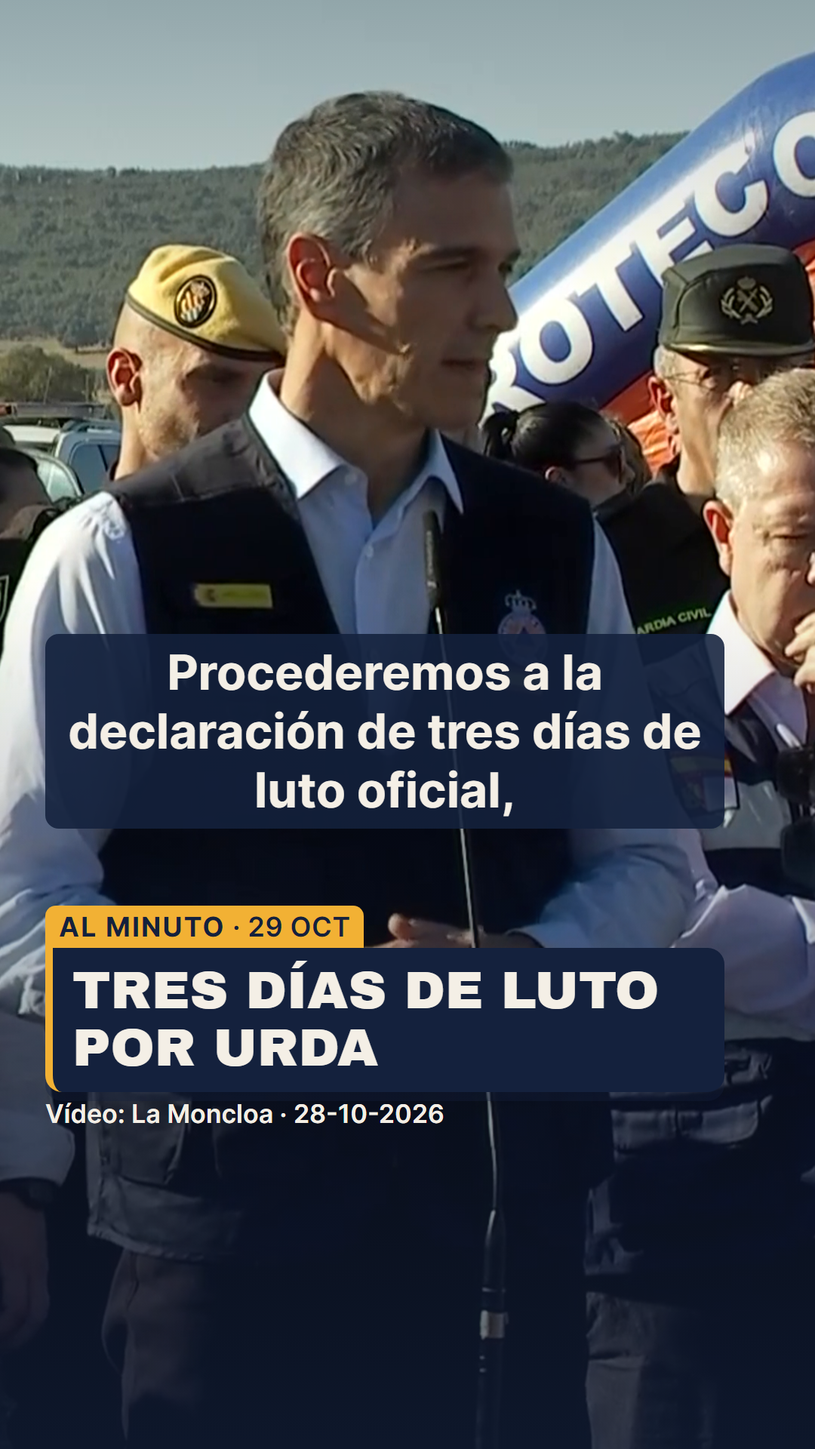
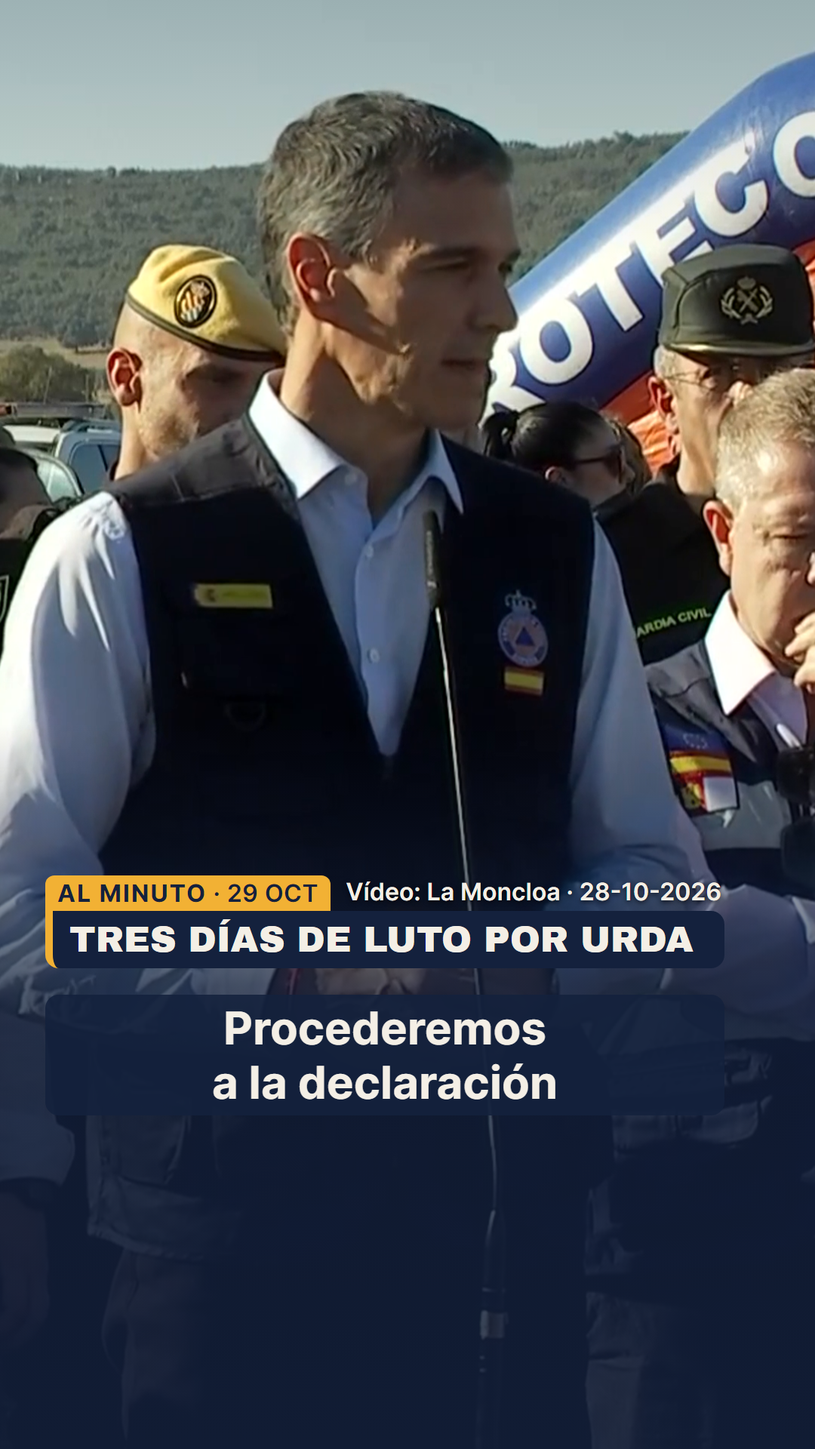
Al minuto sin voz en off y con todo el texto en la banda inferior (pauta Netflix/UNE 153010); 029 v4 aprobada

diff --git a/videos/remotion/src/componentes/AlMinuto.tsx b/videos/remotion/src/componentes/AlMinuto.tsx
@@ -4,8 +4,12 @@ import {C, F, SEGURA, SUBS} from '../tema';
 import {useEntrada, useSalida} from './util';
 import {Notas} from './Notas';
 
-/** Desplazamiento de los subtítulos (citas y voz) en Al minuto: suben sobre el pecho para dejar abajo la caja de titular. Úsalo también como subDy en escenas.json. */
-export const SUBS_DY_AM = -310;
+/** Banda inferior de Al minuto (2/5 de abajo de la pantalla, decisión 2026-10-29), por encima de la interfaz de Instagram (y <= 1500):
+ * caja de titular compacta en y=BANDA_AM.titular y subtítulos debajo en y=BANDA_AM.subs, como mucho 2 líneas
+ * (pauta de subtitulado: Netflix Timed Text Style Guide y UNE 153010 → abajo y centrados, 2 líneas, ~15-17 caracteres/s). */
+export const BANDA_AM = {titular: 1160, subs: 1318};
+/** Desplazamiento de los subtítulos de la voz (si la hay) para caer en la banda: subDy en escenas.json. */
+export const SUBS_DY_AM = BANDA_AM.subs - SUBS.y;
 
 /**
  * Formato AL MINUTO (2026-10-28; reglas en estilo/guia-estilo.md → "Formato Al minuto").
@@ -19,7 +23,7 @@ export const SUBS_DY_AM = -310;
 export const Clip: React.FC<{
   src: string; desde?: number; volumen?: number; bajarEn?: [number, number][]; volumenBajo?: number; foco?: string;
   zoom?: [number, number]; dur?: number; en?: number; credito?: string; creditoY?: number; velo?: number; fundidoFin?: number;
-}> = ({src, desde = 0, volumen = 1, bajarEn = [], volumenBajo = 0.15, foco = '50% 50%', zoom = [1, 1], dur = 10, en = 0, credito, creditoY = 1455, velo = 0.55, fundidoFin}) => {
+}> = ({src, desde = 0, volumen = 1, bajarEn = [], volumenBajo = 0.15, foco = '50% 50%', zoom = [1, 1], dur = 10, en = 0, credito, creditoY = 1500, velo = 0.55, fundidoFin}) => {
   const frame = useCurrentFrame();
   const {fps} = useVideoConfig();
   const k = interpolate(frame, [en * fps, (en + dur) * fps], [0, 1], {extrapolateLeft: 'clamp', extrapolateRight: 'clamp'});
@@ -40,7 +44,7 @@ export const Clip: React.FC<{
       <div style={{position: 'absolute', inset: 0, overflow: 'hidden', background: C.tinta}}>
         <OffthreadVideo src={staticFile(`clips/${src}`)} startFrom={Math.round(desde * fps)} volume={vol}
           style={{width: '100%', height: '100%', objectFit: 'cover', objectPosition: foco, transform: `scale(${esc})`, transformOrigin: foco}} />
-        <div style={{position: 'absolute', inset: 0, background: `linear-gradient(180deg, rgba(20,33,61,${velo * 0.5}) 0%, rgba(20,33,61,0) 20%, rgba(20,33,61,0) 40%, rgba(20,33,61,${velo + 0.15}) 100%)`}} />
+        <div style={{position: 'absolute', inset: 0, background: `linear-gradient(180deg, rgba(20,33,61,${velo * 0.4}) 0%, rgba(20,33,61,0) 18%, rgba(20,33,61,0) 50%, rgba(20,33,61,${velo + 0.2}) 68%, rgba(20,33,61,${velo + 0.3}) 100%)`}} />
       </div>
       {credito ? <Notas lineas={[credito]} sobre="oscuro" tamano={34} y={creditoY} /> : null}
     </>
@@ -48,20 +52,25 @@ export const Clip: React.FC<{
 };
 
 /** Caja de titular fija (todo el vídeo), ABAJO para no tapar la cara (decisión 2026-10-29): etiqueta mostaza "AL MINUTO · fecha" y titular (máx. 8 palabras) en crema sobre tinta. */
-export const TitularAM: React.FC<{texto: string; fecha?: string; etiqueta?: string; y?: number; tamano?: number; en?: number}> = ({texto, fecha, etiqueta = 'AL MINUTO', y = 1200, tamano = 70, en = 0}) => {
-  // Regla de la plantilla: caja 100 % opaca desde el fotograma 1, sin fundido ni movimiento de entrada
+export const TitularAM: React.FC<{texto: string; fecha?: string; etiqueta?: string; credito?: string; y?: number; tamano?: number; en?: number}> = ({texto, fecha, etiqueta = 'AL MINUTO', credito, y = BANDA_AM.titular, tamano}) => {
+  // Una sola línea: el tamaño se ajusta al largo del titular (≈0,67 em por carácter en mayúsculas), máx. 56 px
+  const t = tamano ?? Math.min(56, Math.floor(880 / (texto.length * 0.7)));
+  // Regla de la plantilla: caja 100 % opaca desde el fotograma 1, sin fundido ni movimiento de entrada; una sola línea de titular
   return (
     <div style={{position: 'absolute', left: SEGURA.izq, top: y, width: SEGURA.ancho}}>
-      <div style={{display: 'inline-block', fontFamily: F.texto, fontWeight: 700, fontSize: 36, letterSpacing: 2, color: C.tinta, background: C.mostaza, padding: '6px 18px', borderRadius: '14px 14px 0 0'}}>
-        {etiqueta}{fecha ? <span style={{fontWeight: 600, letterSpacing: 0.5}}> · {fecha}</span> : null}
+      <div style={{display: 'flex', alignItems: 'flex-end', justifyContent: 'space-between'}}>
+        <div style={{fontFamily: F.texto, fontWeight: 700, fontSize: 32, letterSpacing: 2, color: C.tinta, background: C.mostaza, padding: '4px 16px', borderRadius: '12px 12px 0 0', whiteSpace: 'nowrap'}}>
+          {etiqueta}{fecha ? <span style={{fontWeight: 600, letterSpacing: 0.5}}> · {fecha}</span> : null}
+        </div>
+        {credito ? <div style={{fontFamily: F.texto, fontWeight: 600, fontSize: 32, color: C.crema, padding: '0 4px 6px', whiteSpace: 'nowrap', textShadow: '0 2px 6px rgba(0,0,0,0.8)'}}>{credito}</div> : null}
       </div>
-      <div style={{fontFamily: F.titular, fontSize: tamano, lineHeight: 1.08, color: C.crema, background: C.tinta, padding: '18px 26px 22px', borderRadius: '0 22px 22px 22px', borderLeft: `10px solid ${C.mostaza}`, boxShadow: '0 12px 0 rgba(20,33,61,0.35)', textTransform: 'uppercase'}}>{texto}</div>
+      <div style={{fontFamily: F.titular, fontSize: t, lineHeight: 1.05, color: C.crema, background: C.tinta, padding: '12px 22px 14px', borderRadius: '0 18px 18px 18px', borderLeft: `10px solid ${C.mostaza}`, textTransform: 'uppercase', whiteSpace: 'nowrap', overflow: 'hidden'}}>{texto}</div>
     </div>
   );
 };
 
 /** Subtítulos literales del clip (lo que se oye), SIN el nombre de quien habla (decisión 2026-10-29). Encima de la caja de titular. Pastilla tinta en la banda de subtítulos. */
-export const Citas: React.FC<{lineas: {inicio: number; fin: number; texto: string}[]; y?: number; tamano?: number}> = ({lineas, y = SUBS.y + SUBS_DY_AM, tamano = 64}) => {
+export const Citas: React.FC<{lineas: {inicio: number; fin: number; texto: string}[]; y?: number; tamano?: number}> = ({lineas, y = BANDA_AM.subs, tamano = 60}) => {
   const frame = useCurrentFrame();
   const {fps} = useVideoConfig();
   const t = frame / fps;
@@ -69,7 +78,7 @@ export const Citas: React.FC<{lineas: {inicio: number; fin: number; texto: strin
   if (!l) return null;
   return (
     <div style={{position: 'absolute', left: SEGURA.izq, width: SEGURA.ancho, top: y, display: 'flex', justifyContent: 'center'}}>
-      <div style={{fontFamily: F.texto, fontWeight: 700, fontSize: tamano, lineHeight: 1.22, color: C.crema, background: 'rgba(20,33,61,0.88)', padding: '12px 26px', borderRadius: 18, textAlign: 'center', maxWidth: SEGURA.ancho}}>
+      <div style={{fontFamily: F.texto, fontWeight: 700, fontSize: tamano, lineHeight: 1.2, color: C.crema, background: 'rgba(20,33,61,0.88)', padding: '8px 22px', borderRadius: 18, textAlign: 'center', maxWidth: SEGURA.ancho, textWrap: 'balance'} as React.CSSProperties}>
         {l.texto}
       </div>
     </div>

diff --git a/estado/pipeline.md b/estado/pipeline.md
@@ -32,7 +32,7 @@ Lo mantiene el coordinador. Una fila por pieza.
 | 026 | choque-trenes-urda | 🔴 Actualidad | Estándar corto (≈ 73 s) | publicado | 1 | 0 | 2026-10-28 13:28 TikTok · 13:31 IG (PUBLICADO) | 2026-10-28: la persona usuaria pide "un vídeo de la última hora" para subir ya → buscador-temas buscando la noticia · La persona usuaria pide que se le pida el OK en cuanto esté lista para publicar al momento, sin el margen de 2 h · Buscador: choque por alcance AVE-Iryo en Urda (Toledo) el 28-10; cifra de muertos sin cerrar (10 según la portavoz de CLM, otros dan 39–46: posible mezcla con Adamuz) → guion encargado: solo cifra oficial atribuida y con hora, sin causa ni culpas → v1 (202 pal., ≈ 73 s; "al menos 30" según EFE/Junta CLM a las 10:25; los 46 de Cuatro sin fuente oficial localizada) → a revisor-guion (vía rápida, cifra oficial) → v1 CAMBIOS (literales: al menos 30, Junta CLM 10:30, cifras más altas sin confirmar (46 no oficial: Iryo/Protección Civil según The Objective; la portavoz no lo confirma a las 11:14); fuera juzgado y ASFA/ERTMS; CIAF regla general) → guionista aplicándolos (v2) → v2 verificada por el coordinador (grep de literales) → aprobado → vídeo v1 encargado → render v1 (73,2 s, Urda.tsx, cifra editable en _generar-escenas.mjs; subida 7,6 MB) → a revisor-video → v1 APROBADO 9/10. Cifra recomprobada (30, Page: 24 AVE + 6 Iryo). Ficha en publicado/026. Pendiente del OK → guion v3 (puentes, 230 pal.) → sin clips de X válidos → render v2 (87,5 s, 6 fotos Commons, marcador 1-2-3) → v2 APROBADO 9/10. Cifra recomprobada a las 13:02 (30, Page). Pendiente del OK · OK de la persona usuaria ("súbelo") → publicador, publicar ya → PUBLICADO (TikTok 7701694536233389334) |
 | 027 | trenes-oscar-puente | 🔴 Actualidad | Estándar (≤ 88 s) | programado | 2 | 1 | 2026-10-28 21:00 (Meta Business Suite y TikTok Studio, OK de la persona usuaria) | 2026-10-28: petición de la persona usuaria (repaso de los trenes con Puente de ministro, desde el 21-11-2023) → guion encargado. Accidentes: cifras oficiales, sin culpas no establecidas · La persona usuaria pide que se le pida el OK en cuanto esté lista para publicar al momento, sin el margen de 2 h · Solo lo negativo (persona usuaria, 28-10); Urda solo en una línea con hechos confirmados → v1 (86 s, 236 pal.; Adamuz, Gelida, Rodalies, robo de cable, huelga de febrero; Urda en una línea; 6 VERIFICAR) → a revisor-guion (vigilar gancho con los muertos de Adamuz) · La persona usuaria la quiere HOY (28-10), pese al choque de Urda; pedir OK en cuanto esté aprobada → v1 CAMBIOS (gancho sin muertos junto al ministro; desenlaces: detenidos del cable, huelga desconvocada; Rodalies 2 días; cierre nuevo) → guionista v2 ≤ 88 s → v2 (241 pal., 87,6 s) verificada por el coordinador (grep) → aprobado → vídeo v1 encargado → render v1 (85,7 s, Tren.tsx; subida 6,0 MB) → a revisor-video → v1 APROBADO 9/10 (opcional: "SIN CERRAR" en lugar de "?"). Ficha en publicado/027. Pendiente del OK · 2026-10-28: la persona usuaria pide imágenes reales y más dinamismo con hilo de retención → guionista v3 → luego vídeo v2 → guion v3 (misma voz; contador HECHO 1–6) → render v2 (85,6 s, 9 fotos Commons, Moncloa con fecha) → v2 APROBADO 9/10. Pendiente del OK · OK de la persona usuaria ("027 a las 21:00") → publicador, 28-10 21:00 → PROGRAMADO y verificado. Miniatura de IG sin confirmar |
 | 028 | dos-cifras-de-paro | 📊 Datos y mitos | Flash (≈ 32 s) | guion-revision | 1 | 0 | sin hueco (era 2026-10-30 19:00) | Propuesta 3 de 2026-10-27 (EPA 3T: 2.591.200 frente a 2.379.505 registrados). 2026-10-29 (producción nocturna en la nube): guion encargado → v1 (109 pal.) → a revisor-guion → v1 CAMBIOS (texto de voz literal de 88 pal. en revisiones/guiones/028-dos-cifras-de-paro-v1.md; corregir "Idea en una frase" y tiempos a 165 pal/min). BLOQUEADA por verificación: el proxy de la nube bloquea ine.es, lamoncloa.gob.es, sepe.es, revista.seg-social.es, boe.es y commons.wikimedia.org; no se pudo leer literalmente la nota EPA3T26 (2.591.200; +95.900; −21.900) ni la definición de parado registrado. Siguiente paso: permitir esos dominios (o comprobar en Chrome), aplicar el literal y hacer una vuelta 2 solo de datos |
-| 029 | luto-oficial | 🔴 Actualidad · Al minuto (piloto) | Al minuto (28 s) | aprobado (piloto, sin programar) | 2 | 2 | — (no va a la cola salvo OK de la persona usuaria; luto vigente hasta 2026-10-31 24:00) | Declaración de Sánchez en Urda 2026-10-28 (clip La Moncloa) + RD 949/2026. Guion v2 APROBADO; vídeo v3 APROBADO 9/10 (cambios de la persona usuaria 29-10: sin rótulo de dato, caja abajo, citas sin nombre). Render videos/renders/029-luto-oficial-v3.mp4 (clip y fuente .mp4 solo en local, no en git). Renumerada de 028 por choque con la producción nocturna. |
+| 029 | luto-oficial | 🔴 Actualidad · Al minuto (piloto) | Al minuto (28 s) | aprobado (piloto, sin programar) | 2 | 2 | — (no va a la cola salvo OK de la persona usuaria; luto vigente hasta 2026-10-31 24:00) | Declaración de Sánchez en Urda 2026-10-28 (clip La Moncloa) + RD 949/2026. Guion v2 APROBADO; vídeo v4 APROBADO 9/10 (cambios de la persona usuaria 29-10: sin rótulo de dato, sin voz en off, caja y subtítulos en la banda inferior, citas sin nombre). Render videos/renders/029-luto-oficial-v4.mp4 (clip y fuente .mp4 solo en local, no en git). Renumerada de 028 por choque con la producción nocturna. |
 
 **Serie "8 años en cifras" (pedida el 2026-10-28):** cifras negativas del Gobierno de Sánchez desde 2018, de fuente oficial y con comparación honesta. Propuesta en temas/propuestas/2026-10-28-serie-8-anos.md (buscador). Elegir episodios con la persona usuaria.
 

diff --git a/estilo/guia-estilo.md b/estilo/guia-estilo.md
@@ -60,9 +60,9 @@ Elegida **a propósito lejos de los colores de los partidos españoles**: la cue
 
 ## Formato Al minuto (2026-10-28, aprobado por la persona usuaria)
 Actualidad del mismo día en **15–40 s** con la **imagen real del hecho** como protagonista. Inspirado en cuentas de clips de noticias, pero con dos diferencias que no se negocian: **sin clips de televisión** y **sin tono activista** (la línea editorial elige el tema y el dato, nunca adjetiva).
-- **Pantalla:** el clip a pantalla completa (velo tinta suave arriba y abajo para leer) · **caja de titular fija ABAJO** (y≈1200, para no tapar la cara; etiqueta mostaza "AL MINUTO" + titular de máx. 8 palabras en crema sobre tinta, presente todo el vídeo) · subtítulos encima de la caja, a la altura del pecho · crédito del clip siempre visible bajo la caja ("Vídeo: La Moncloa", "Vídeo: @usuario"). **Sin rótulo "El dato que falta"** (decisión de la persona usuaria del 2026-10-29: "no queda bien"); el contexto va en la voz y en el post.
-- **Audio:** el sonido original del clip. Si hablan, **subtítulos literales** de lo que se dice, **sin el nombre de quien habla** (solo el texto; quién es lo dicen el titular y el post; 2026-10-29), sin recortar el sentido de la frase. Voz de Rafalupi **como mucho una frase** (el dato de contexto, con sus subtítulos normales); mientras suena, el clip baja a ~15 %.
-- **Estructura:** 0–2 s titular + lo más fuerte del clip (gancho visual, nunca fuera de contexto) · 2–25 s el clip (uno o dos cortes) · últimos 5–8 s la frase de contexto en voz + cierre corto ("Síguenos para estar informado").
+- **Pantalla:** el clip a pantalla completa (velo tinta suave arriba y abajo para leer) · todo el texto en la **banda inferior** (2/5 de abajo, y 1152–1500, por encima de la interfaz de Instagram; decisión del 2026-10-29): **caja de titular compacta** de una sola línea (etiqueta mostaza "AL MINUTO · fecha" con el crédito del clip a su derecha, "Vídeo: La Moncloa" / "Vídeo: @usuario"; titular de máx. 8 palabras en crema sobre tinta, tamaño ajustado para caber en una línea, todo el vídeo) y, **debajo**, los subtítulos · la cara y la parte de arriba del clip quedan libres. **Sin rótulo "El dato que falta"** (decisión de la persona usuaria del 2026-10-29: "no queda bien"); el contexto va en la voz y en el post.
+- **Audio:** el sonido original del clip. Si hablan, **subtítulos literales** de lo que se dice según la pauta de subtitulado consolidada (Netflix Timed Text Style Guide para español y UNE 153010): abajo y centrados, **máx. 2 líneas** equilibradas, ~37–42 caracteres por línea, 15–17 caracteres/s como máximo, mín. 1 s y máx. ~6 s por subtítulo, cortes en pausas lógicas (nunca separar artículo y nombre); **sin el nombre de quien habla** (solo el texto; quién es lo dicen el titular y el post; 2026-10-29), sin recortar el sentido de la frase. **Sin voz en off** (decisión del 2026-10-29: "solo la noticia, sin ElevenLabs"): se oye solo el clip; el contexto va en el post. `"sinVoz": true` en escenas.json.
+- **Estructura:** 0–2 s titular + lo más fuerte del clip (gancho visual, nunca fuera de contexto) · 2–25 s el clip (uno o dos cortes) · el clip hasta el final de la frase + cierre corto ("Síguenos para estar informado").
 - **Clips permitidos (por orden de preferencia):**
   1. **Institucionales** con reutilización permitida citando la fuente: La Moncloa (galería de vídeos), Congreso (Canal Parlamento / archivo audiovisual), Senado, Parlamento Europeo (Multimedia Centre), Comisión Europea (Audiovisual Service), Casa Real, Gobiernos autonómicos y ayuntamientos con aviso legal que lo permita. El guionista comprueba el aviso legal de cada fuente y lo anota.
   2. **Grabados por particulares en redes** (excepción de la persona usuaria del 2026-10-25): citando la cuenta (@) en pantalla y **pixelando las caras** de quien no sea cargo público. Citar no equivale a permiso: riesgo de retirada asumido por la persona usuaria.

diff --git a/.claude/agents/generador-video.md b/.claude/agents/generador-video.md
@@ -25,7 +25,7 @@ No leas informes ni carpetas de otras piezas salvo para copiar un patrón concre
 3. Renderiza.
 4. Autocomprobación antes de entregar: formato y duración (±5 s del objetivo), los 6 fotogramas de control y **la salida de `comprobar.mjs` en "COMPROBAR: OK"**. Cada aviso que quede, corrígelo o explícale al coordinador por qué no es un fallo (p. ej. un sello que rebasa 5 px solo al entrar); mira en un fotograma los de la franja de subtítulos. Portada con el titular legible en el recorte central 1080×1350.
 
-**Formato Al minuto:** `"plantilla": "alminuto"` en escenas.json y los componentes `clip` (vídeo a pantalla completa desde `clips/` de la pieza, con `desde`, `volumen` y `bajarEn` para la voz), `titularAM` (caja fija) , `citas` (subtítulos literales del clip, sin nombre de quien habla). La caja va abajo y los subtítulos encima (`"subDy": -310` en escenas.json para los de la voz); no se usa `datoFalta` (2026-10-29). Prepara el clip con `node videos/scripts/clip.mjs` (recorte de tramos, pixelado de caras con cajas, 1080×1920). Esqueleto: `videos/plantillas/alminuto.escenas.json`.
+**Formato Al minuto:** `"plantilla": "alminuto"` en escenas.json y los componentes `clip` (vídeo a pantalla completa desde `clips/` de la pieza, con `desde`, `volumen` y `bajarEn` para la voz), `titularAM` (caja fija) , `citas` (subtítulos literales del clip, sin nombre de quien habla). Todo en la banda inferior: caja compacta con el crédito (`credito` en `titularAM`) y subtítulos debajo, máx. 2 líneas por subtítulo; `"sinVoz": true` (sin locución); no se usa `datoFalta` (2026-10-29). Prepara el clip con `node videos/scripts/clip.mjs` (recorte de tramos, pixelado de caras con cajas, 1080×1920). Esqueleto: `videos/plantillas/alminuto.escenas.json`.
 
 ## Reglas de estilo que no se negocian
 - **Zonas seguras** de Instagram: sin texto importante en los 250 px de arriba, en los 420 px de abajo ni en los 120 px del lateral derecho.

diff --git a/agentes/generador-video.md b/agentes/generador-video.md
@@ -25,7 +25,7 @@ No leas informes ni carpetas de otras piezas salvo para copiar un patrón concre
 3. Renderiza.
 4. Autocomprobación antes de entregar: formato y duración (±5 s del objetivo), los 6 fotogramas de control y **la salida de `comprobar.mjs` en "COMPROBAR: OK"**. Cada aviso que quede, corrígelo o explícale al coordinador por qué no es un fallo (p. ej. un sello que rebasa 5 px solo al entrar); mira en un fotograma los de la franja de subtítulos. Portada con el titular legible en el recorte central 1080×1350.
 
-**Formato Al minuto:** `"plantilla": "alminuto"` en escenas.json y los componentes `clip` (vídeo a pantalla completa desde `clips/` de la pieza, con `desde`, `volumen` y `bajarEn` para la voz), `titularAM` (caja fija) , `citas` (subtítulos literales del clip, sin nombre de quien habla). La caja va abajo y los subtítulos encima (`"subDy": -310` en escenas.json para los de la voz); no se usa `datoFalta` (2026-10-29). Prepara el clip con `node videos/scripts/clip.mjs` (recorte de tramos, pixelado de caras con cajas, 1080×1920). Esqueleto: `videos/plantillas/alminuto.escenas.json`.
+**Formato Al minuto:** `"plantilla": "alminuto"` en escenas.json y los componentes `clip` (vídeo a pantalla completa desde `clips/` de la pieza, con `desde`, `volumen` y `bajarEn` para la voz), `titularAM` (caja fija) , `citas` (subtítulos literales del clip, sin nombre de quien habla). Todo en la banda inferior: caja compacta con el crédito (`credito` en `titularAM`) y subtítulos debajo, máx. 2 líneas por subtítulo; `"sinVoz": true` (sin locución); no se usa `datoFalta` (2026-10-29). Prepara el clip con `node videos/scripts/clip.mjs` (recorte de tramos, pixelado de caras con cajas, 1080×1920). Esqueleto: `videos/plantillas/alminuto.escenas.json`.
 
 ## Reglas de estilo que no se negocian
 - **Zonas seguras** de Instagram: sin texto importante en los 250 px de arriba, en los 420 px de abajo ni en los 120 px del lateral derecho.

diff --git a/PLANIFICADOR.md b/PLANIFICADOR.md
@@ -47,7 +47,7 @@ Regla de variedad: en cada bloque de 10 vídeos, ningún líder protagoniza más
 | **Reel flash** | 20–35 s | Curiosidad rápida o "dato del día" |
 | **Serie** (2–4 partes) | 60–90 s c/u | Temas grandes: "La Constitución en 4 vídeos" |
 | **Carrusel** (opcional) | 6–10 diapositivas | Resumen de la semana, reutilizando gráficos del vídeo |
-| **Al minuto** (desde el 2026-10-28) | 15–40 s | Actualidad del mismo día con **imagen real del hecho**: el clip manda, con titular fijo de marca abajo y una frase de contexto en voz. Plantilla `alminuto`; guion con `guiones/_plantilla-al-minuto.md`; reglas en `estilo/guia-estilo.md` → "Formato Al minuto" |
+| **Al minuto** (desde el 2026-10-28) | 15–40 s | Actualidad del mismo día con **imagen real del hecho**: el clip manda, con titular fijo de marca abajo, subtítulos literales y sin voz en off. Plantilla `alminuto`; guion con `guiones/_plantilla-al-minuto.md`; reglas en `estilo/guia-estilo.md` → "Formato Al minuto" |
 
 **Dos líneas de producto (decisión del 2026-10-28, tras el análisis de rendimiento):**
 - **"¿Por qué…?"** (el núcleo, ~70 %): explicativos de instituciones, elecciones y dinero público con un ejemplo y una duda cotidiana; estándar o flash. Es lo que trae guardados y seguidores (002, 003, 016).

diff --git a/.claude/agents/revisor-video.md b/.claude/agents/revisor-video.md
@@ -34,7 +34,7 @@ Agrupa en un solo Bash los comandos sin imágenes de los pasos 1–3 (cada turno
 
 **Test de formato Reel/TikTok:** aplica los 10 criterios de `estilo/test-formato-reel.md` sobre el vídeo real.
 
-**Si el formato es Al minuto:** la caja de titular (abajo, sin tapar caras) se lee en todo el vídeo, los subtítulos no llevan el nombre de quien habla, no hay rótulo "El dato que falta", el crédito del clip está visible, las caras de particulares están pixeladas, los subtítulos del clip coinciden con lo que se oye. Duración 15–40 s.
+**Si el formato es Al minuto:** la caja de titular (banda inferior, una línea, sin tapar caras) se lee en todo el vídeo, no hay voz en off, cada subtítulo tiene como mucho 2 líneas, los subtítulos no llevan el nombre de quien habla, no hay rótulo "El dato que falta", el crédito del clip está visible, las caras de particulares están pixeladas, los subtítulos del clip coinciden con lo que se oye. Duración 15–40 s.
 
 ## Veredicto
 - `APROBADO`: sin bloqueantes y test ≥ 9.

diff --git a/agentes/revisor-video.md b/agentes/revisor-video.md
@@ -34,7 +34,7 @@ Agrupa en un solo Bash los comandos sin imágenes de los pasos 1–3 (cada turno
 
 **Test de formato Reel/TikTok:** aplica los 10 criterios de `estilo/test-formato-reel.md` sobre el vídeo real.
 
-**Si el formato es Al minuto:** la caja de titular (abajo, sin tapar caras) se lee en todo el vídeo, los subtítulos no llevan el nombre de quien habla, no hay rótulo "El dato que falta", el crédito del clip está visible, las caras de particulares están pixeladas, los subtítulos del clip coinciden con lo que se oye. Duración 15–40 s.
+**Si el formato es Al minuto:** la caja de titular (banda inferior, una línea, sin tapar caras) se lee en todo el vídeo, no hay voz en off, cada subtítulo tiene como mucho 2 líneas, los subtítulos no llevan el nombre de quien habla, no hay rótulo "El dato que falta", el crédito del clip está visible, las caras de particulares están pixeladas, los subtítulos del clip coinciden con lo que se oye. Duración 15–40 s.
 
 ## Veredicto
 - `APROBADO`: sin bloqueantes y test ≥ 9.

diff --git a/revisiones/videos/029-luto-oficial-v4.md b/revisiones/videos/029-luto-oficial-v4.md
@@ -1,0 +1,7 @@
+# Revisión de vídeo · 029-luto-oficial · vuelta 4
+**Veredicto:** APROBADO  →  sigue a publicación
+**Técnica:** 1080×1920 · 30 fps · H.264+AAC · 28,2 s · -14,6 LUFS · pico -1,4 dBTP · sin voz en off, solo clip 0–24,1 s y cierre en silencio
+**Test de formato:** 9/10 (criterio 9 sin pregunta, decisión del guion)
+
+Verificado: subtítulos 17,7–24,1 literales frente a la transcripción completa; caja compacta de una línea con crédito a la derecha; subtítulos de 2 líneas bajo la caja, por encima de y=1490; cara libre; cierre con "Síguenos".
+Recomendado (no bloquea): último subtítulo (22,3–24,1 s) a 23,9 cps y 13,05–15,15 a 19 cps, por encima de 15–17 cps. Se puede repartir el corte (p. ej. "y todo el Estado está con las víctimas y también" / "con los familiares de las mismas.") para bajar de ~20 cps. El crédito dentro de la caja se ve pequeño (~27 px): subirlo si cabe.

diff --git a/guiones/aprobados/029-luto-oficial.md b/guiones/aprobados/029-luto-oficial.md
@@ -96,3 +96,4 @@ Imágenes: ninguna foto externa; todo el fondo es el clip. Rótulos y cierre, ve
 - Fuera el rótulo "El dato que falta" (la frase de la voz se queda, con sus subtítulos normales).
 - Caja de titular abajo para no tapar la cara; subtítulos encima, a la altura del pecho.
 - Subtítulos del clip sin "Pedro Sánchez:", solo el texto.
+- Persona usuaria, tras ver la v3: sin voz en off (solo el clip) y caja + subtítulos en la banda inferior (2/5 de abajo); subtítulos con pauta Netflix/UNE 153010 (máx. 2 líneas).
